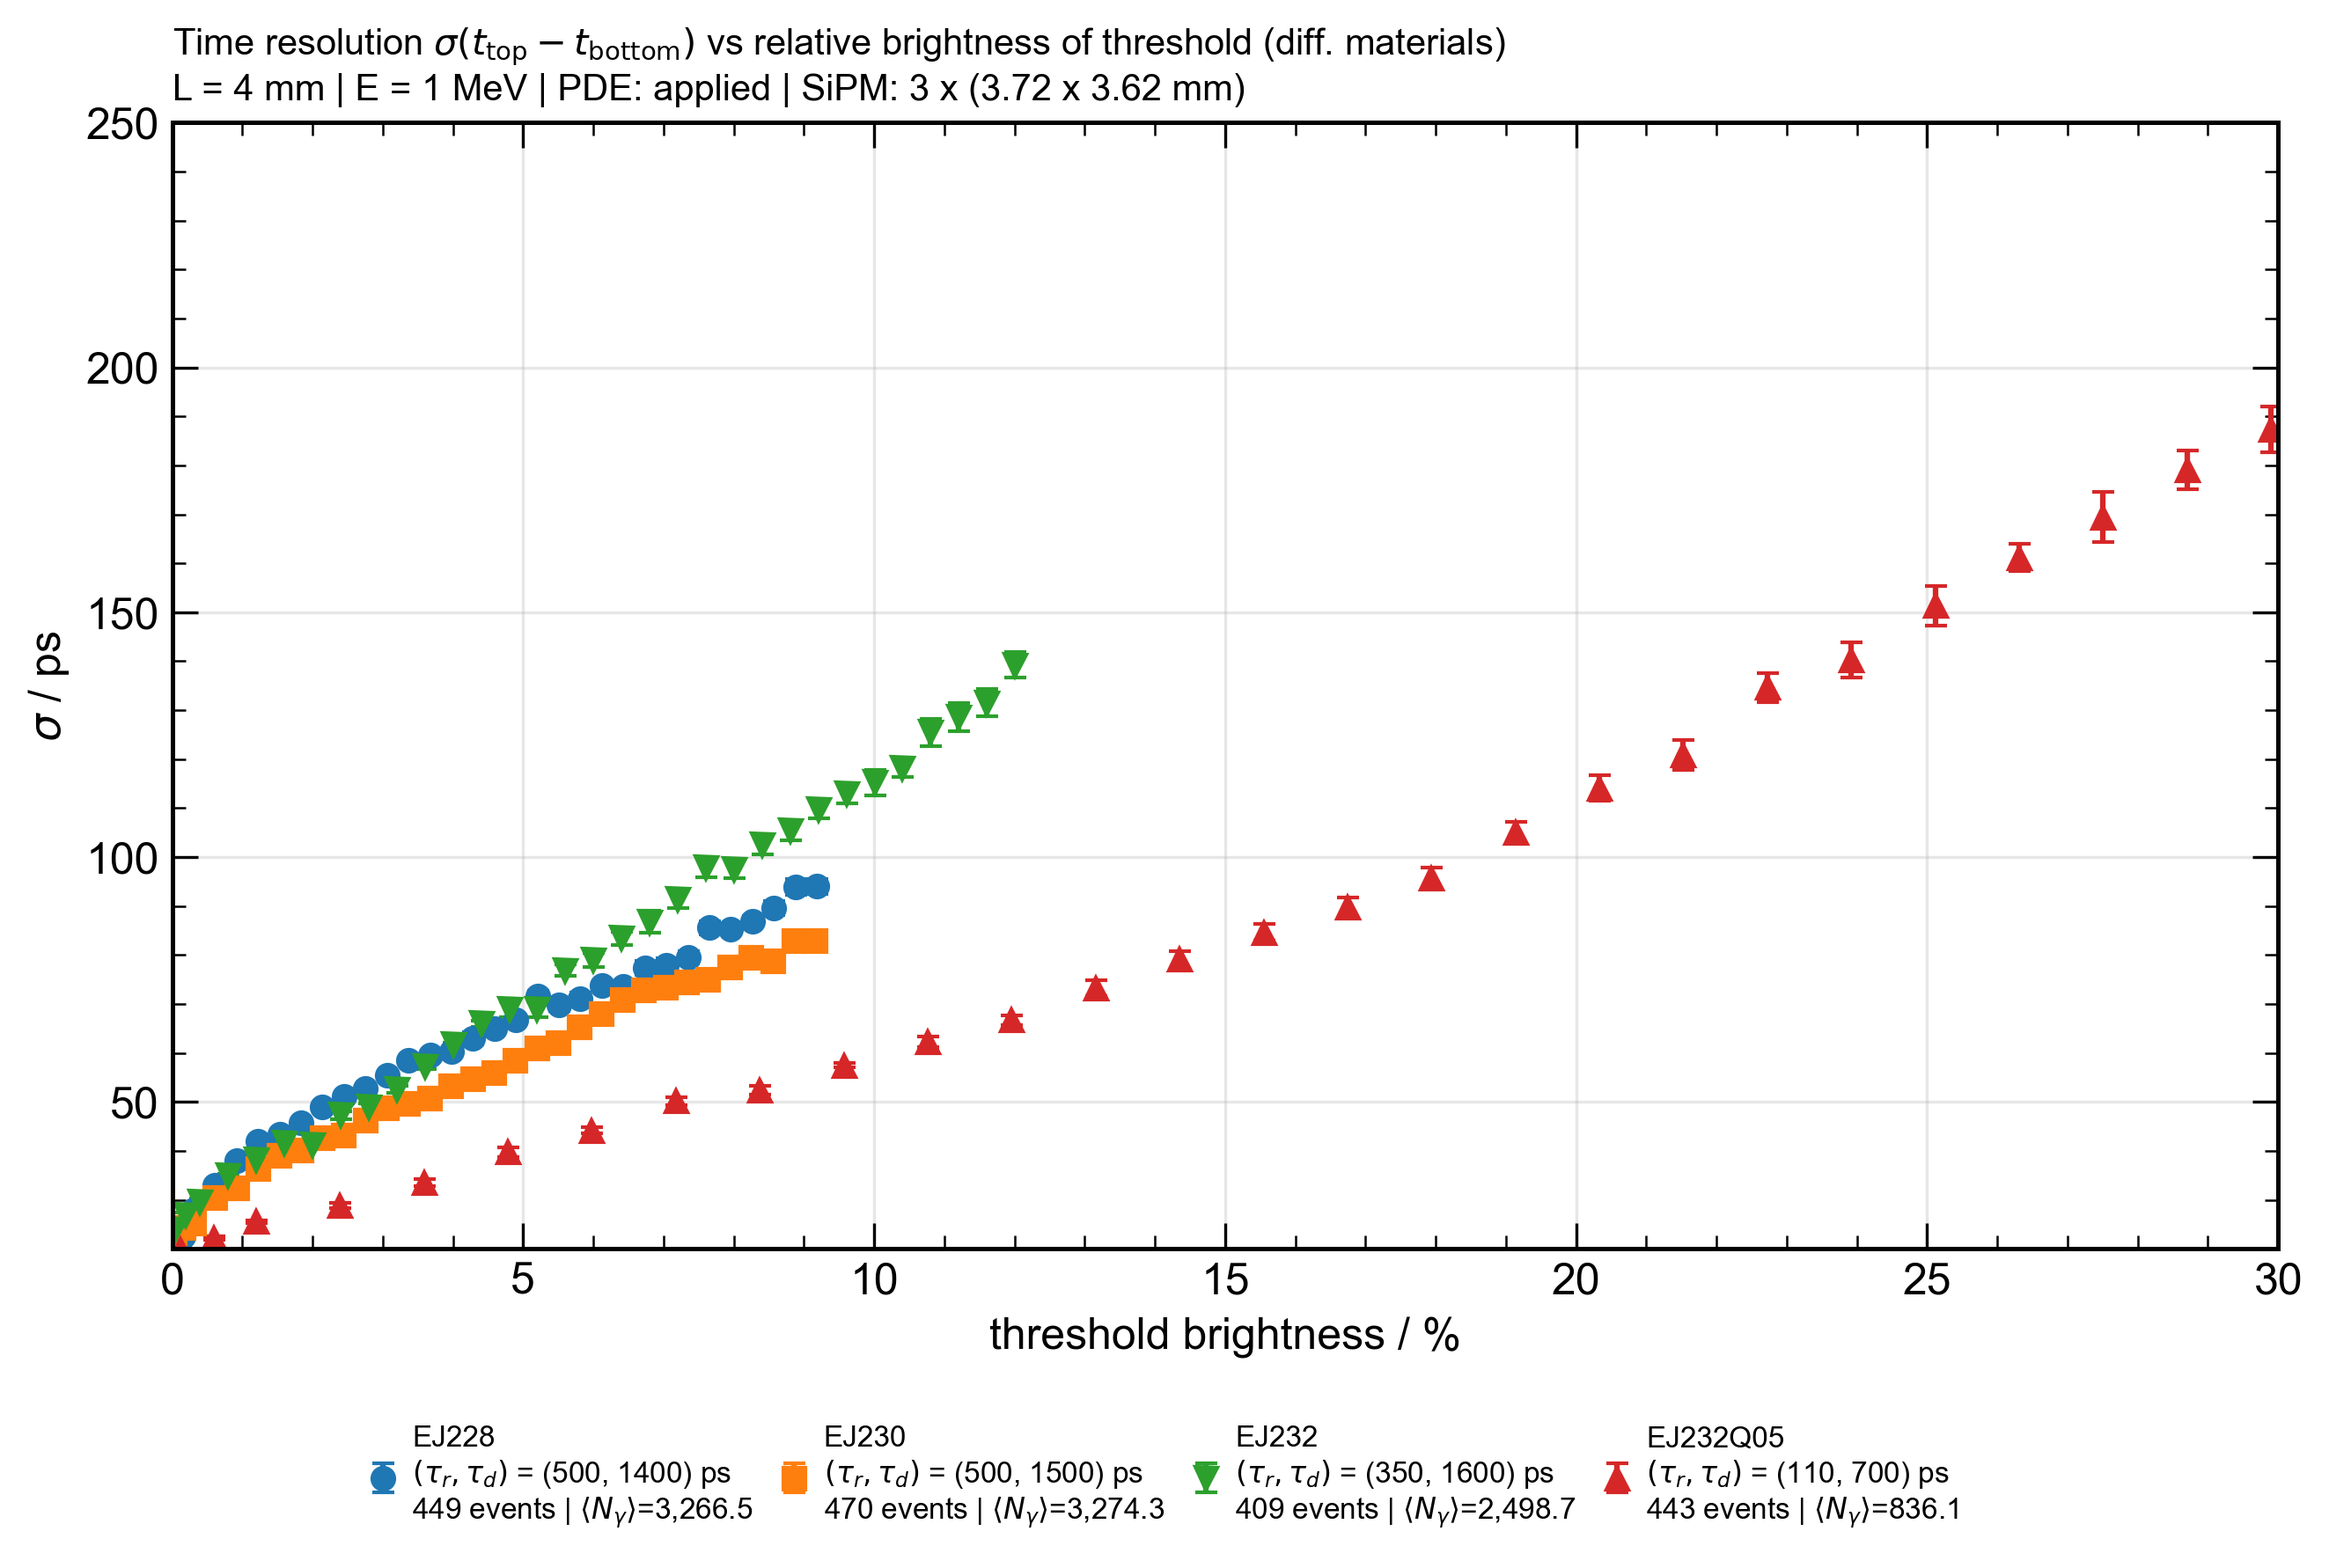
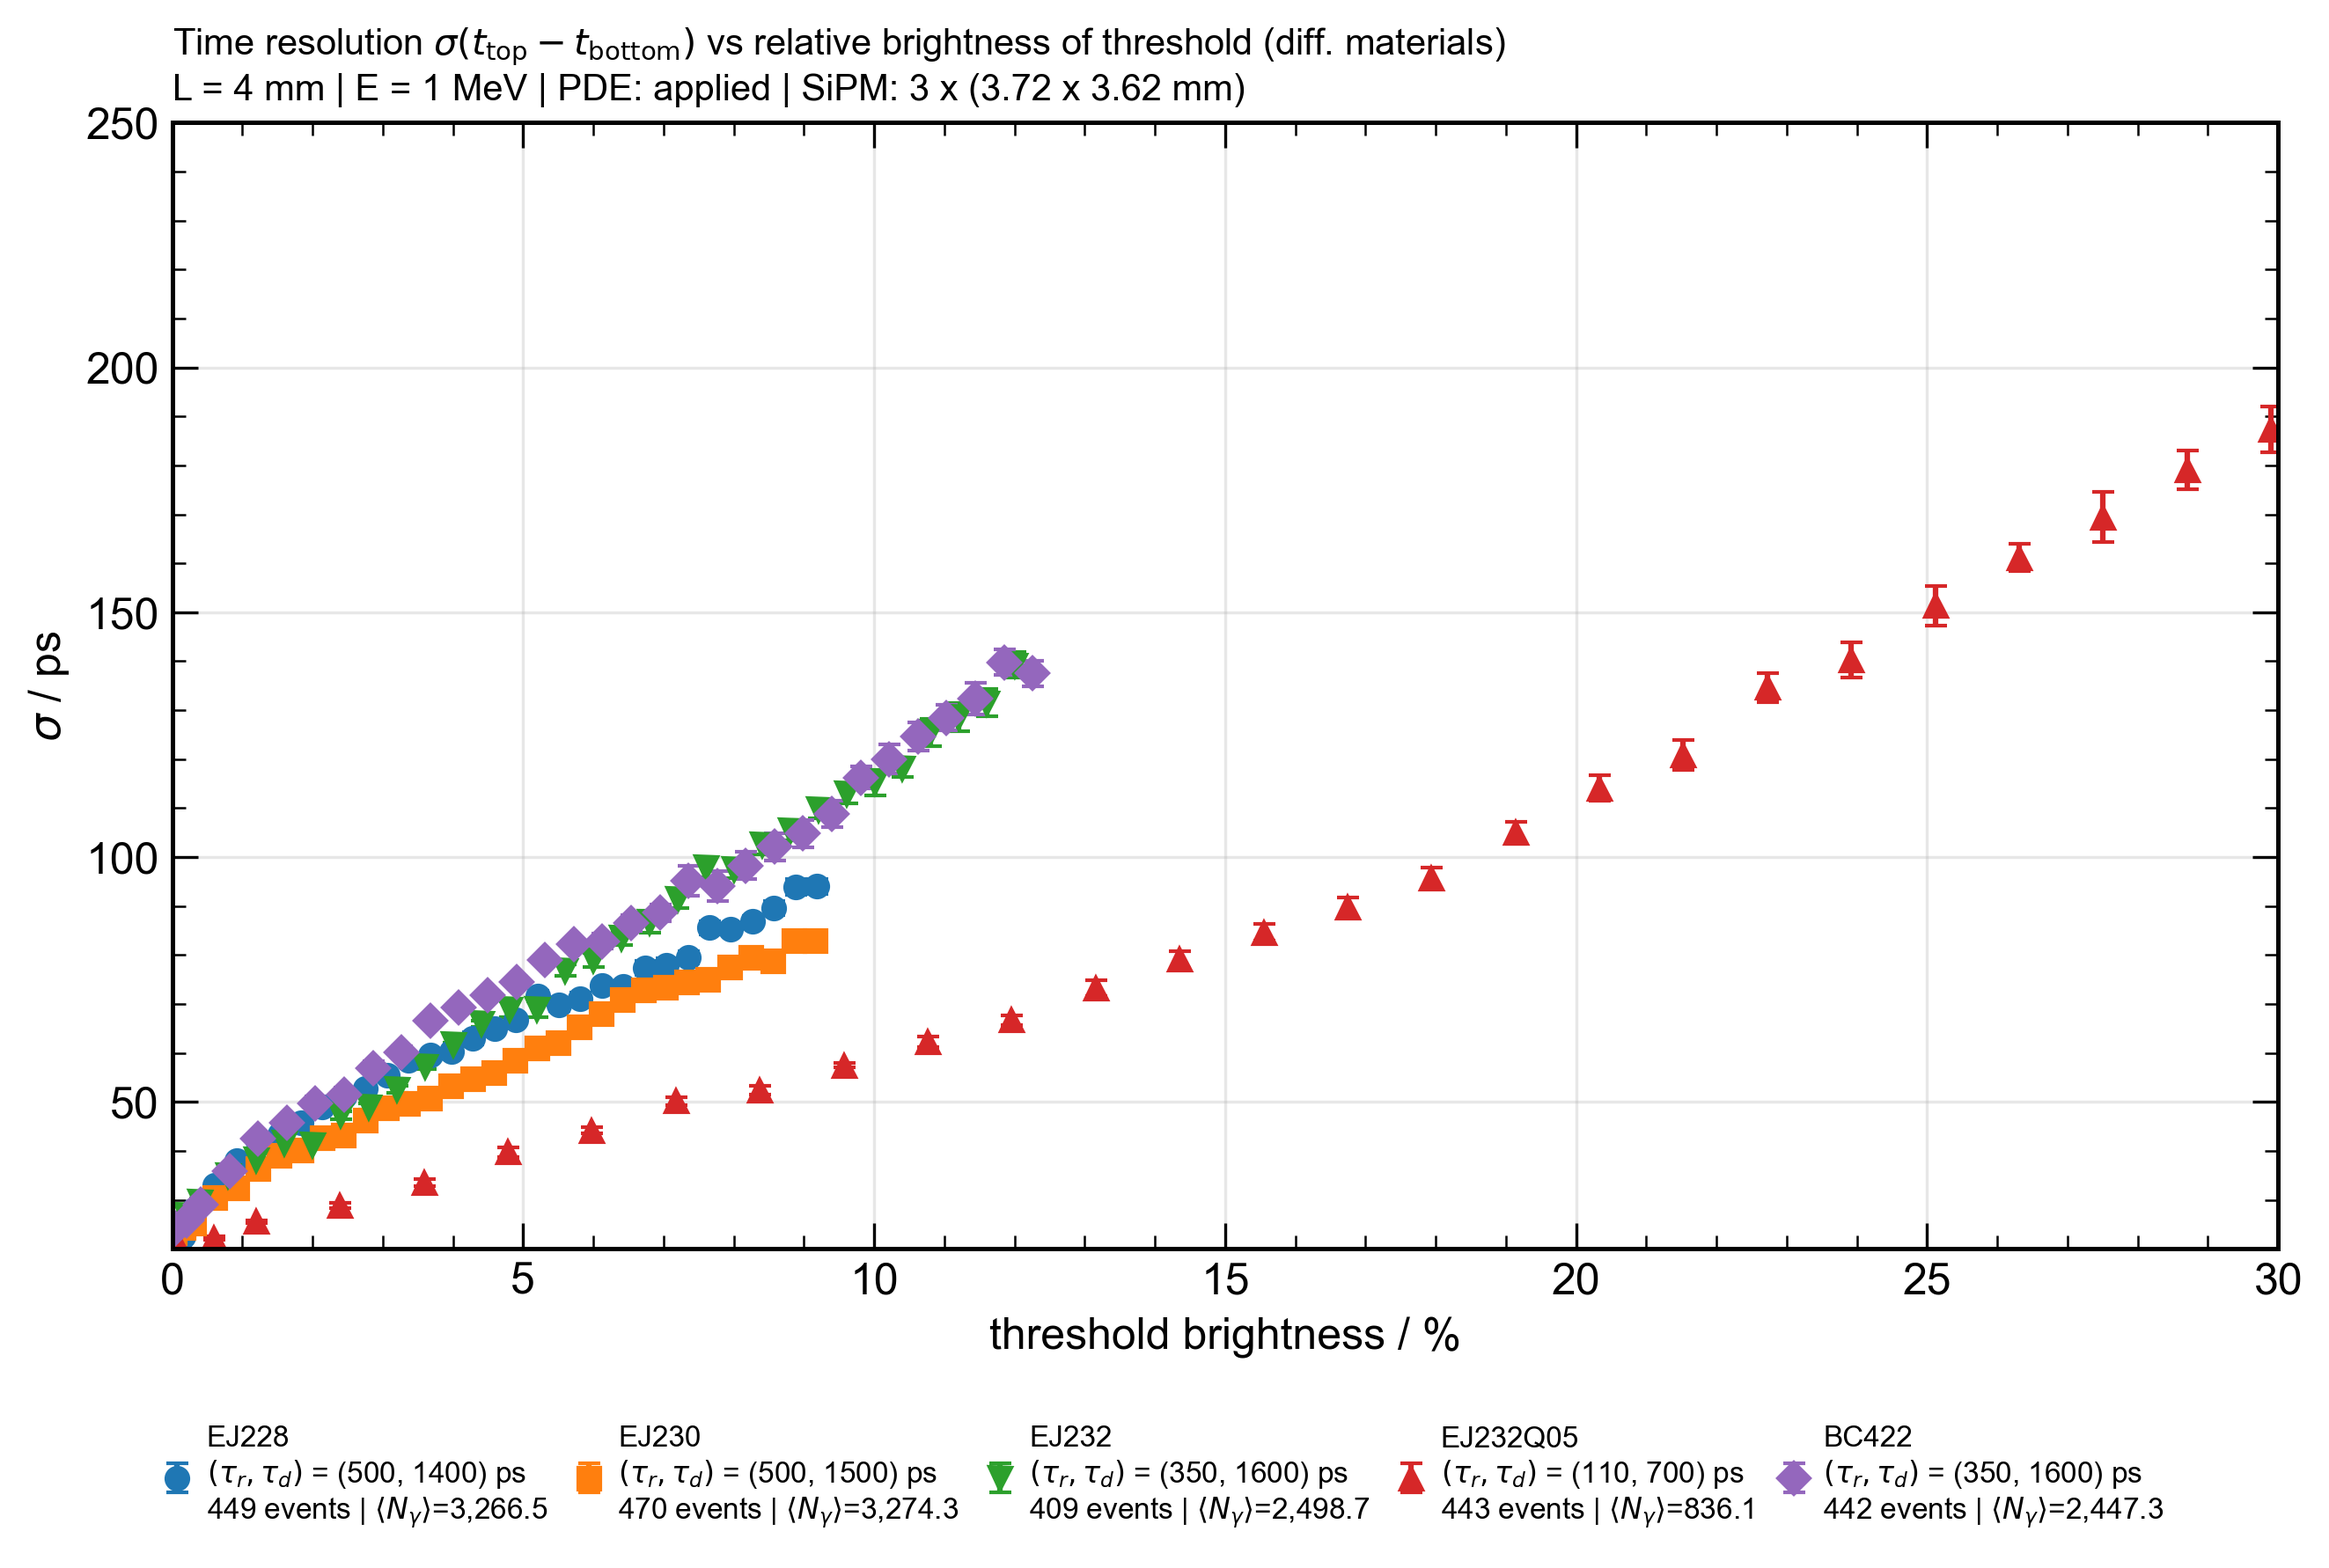
new plots

diff --git a/threshold/compare_materials_energies.py b/threshold/compare_materials_energies.py
@@ -13,7 +13,7 @@ DATA_ROOT = Path("/home/derksen/Desktop/geant4/Scintillation_Simulation_build/da
 # Daten liegen unter data/<Material>/<Energie>/<Länge>mm.csv
 OUT_DIR = SCRIPT_DIR / "plots" / "plots_comparison"
 
-MATERIAL_FOLDERS = ["EJ228", "EJ230", "EJ232", "EJ232Q05"] # BC422
+MATERIAL_FOLDERS = ["EJ228", "EJ230", "EJ232", "EJ232Q05", "BC422"] # BC422
 
 SIPM_ACTIVE_AREA = "3 x (3.72 x 3.62 mm)"
 PDE_APPLIED = True
@@ -31,6 +31,7 @@ RELATIVE_PLOT_RANGE = {
         "EJ230": {"x": (0, 11), "y": (25, 75)},
         "EJ232": {"x": (0, 25), "y": (20, 210)},
         "EJ232Q05": {"x": (0, 30), "y": (20, 200)},
+        "BC422": {"x": (0, 30), "y": (20, 200)},
     },
     "materials": {
         "1GeV": {"x": (0, 26), "y": (20, 200)},
